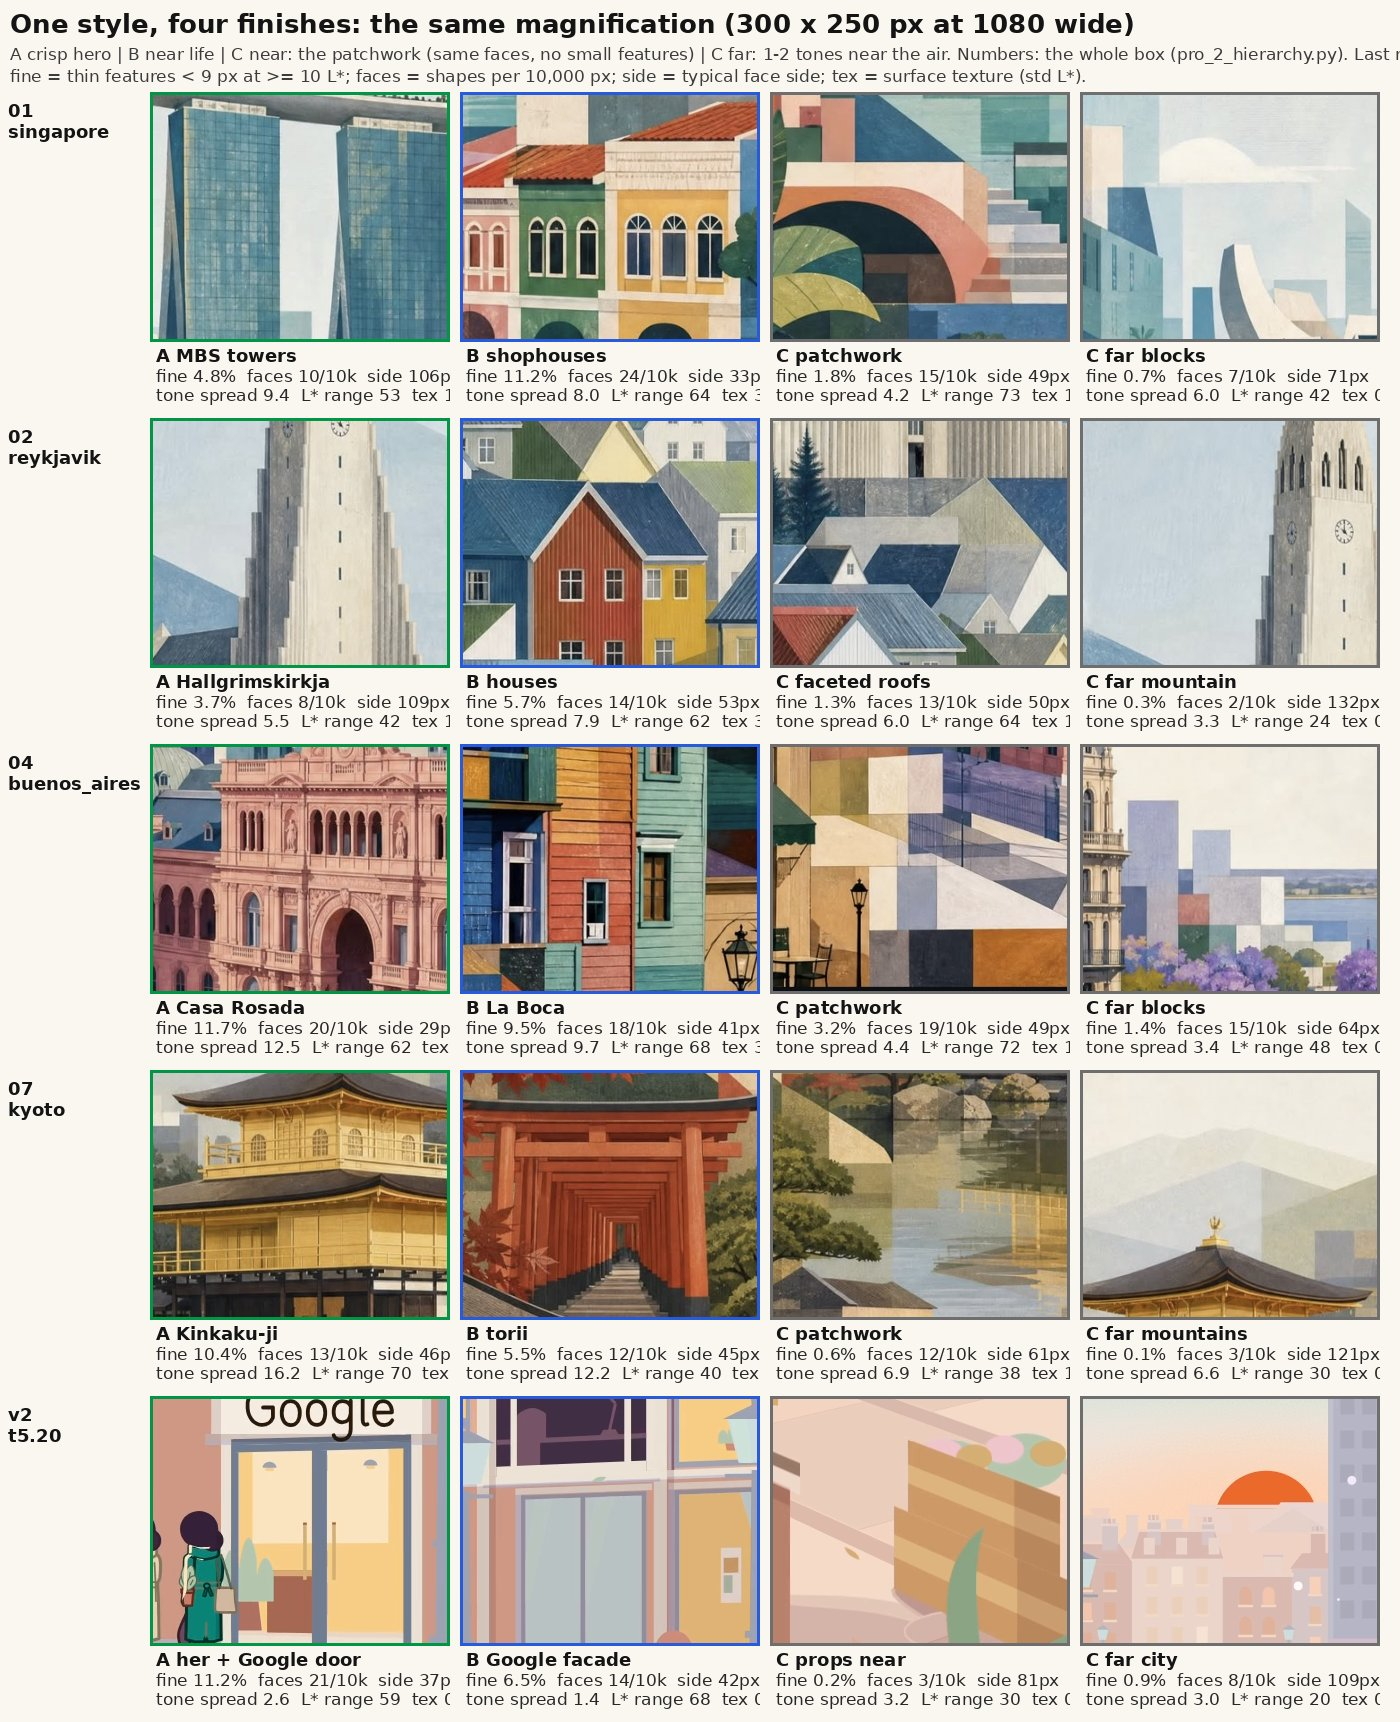
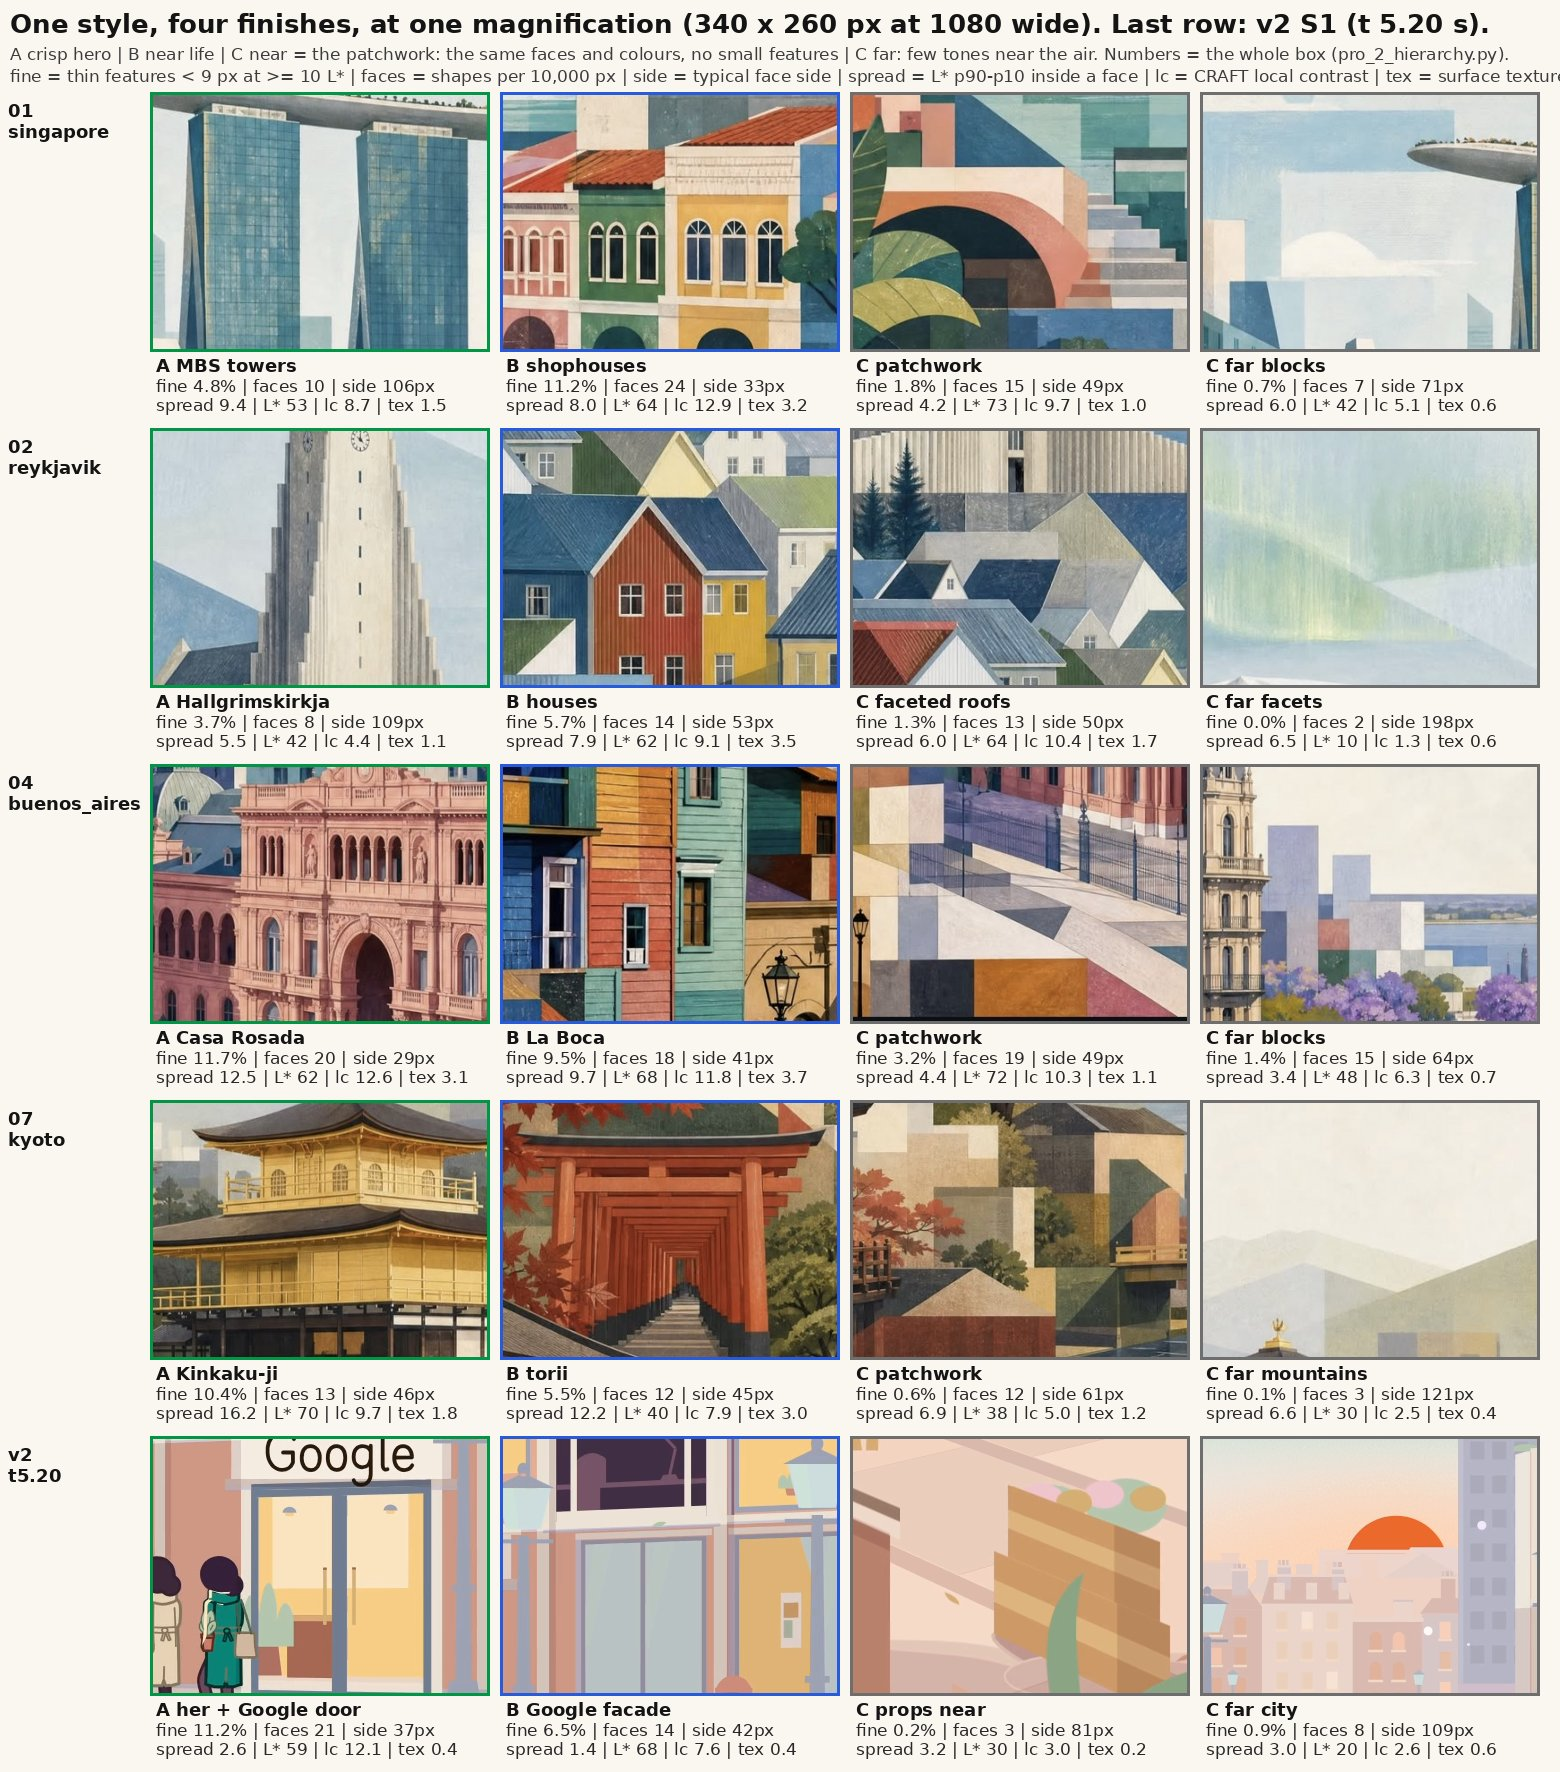
HANDOFF 2d: the journal-corpus thread (the owner's bottom-up approach: recent stories from big publications, scored for fit with our look, clustered) + the study's work in progress
Claude-Session: https://claude.ai/code/session_01YGLGMqbgdpycjemYZL3aoL

diff --git a/video/scripts/look/posters/pro_2_hierarchy.py b/video/scripts/look/posters/pro_2_hierarchy.py
@@ -49,7 +49,7 @@ BOXES = {
     '02_reykjavik.jpg': [
         ('Hallgrimskirkja', 'A', [45, 398, 532, 1118]), ('Harpa', 'A', [592, 1002, 1140, 1233]),
         ('houses', 'B', [0, 1260, 930, 1605]), ('faceted roofs', 'C', [0, 1118, 630, 1260]),
-        ('far mountain', 'Cf', [0, 390, 180, 960])],
+        ('far mountain', 'Cf', [0, 390, 180, 960]), ('far facets', 'Cf', [900, 600, 1206, 880])],
     '03_hanoi.jpg': [
         ('One Pillar Pagoda', 'A', [675, 829, 1185, 1377]), ('Huc bridge', 'A', [225, 1054, 630, 1204]),
         ('cyclo', 'B', [82, 1279, 368, 1564]), ('patchwork', 'C', [405, 1279, 705, 1609]),
@@ -81,10 +81,10 @@ V2 = {  # v2 master frames (1080 x 1920); A = the beat's subject (docs/v2/STYLE.
 }
 # the crop sheet: rows of (image, [(tier label, centre x, centre y) in the image's own pixels])
 CROPS = [
-    ('01_singapore.jpg', [('A MBS towers', 500, 840), ('B shophouses', 800, 1420), ('C patchwork', 300, 1470), ('C far blocks', 170, 860)]),
-    ('02_reykjavik.jpg', [('A Hallgrimskirkja', 250, 820), ('B houses', 450, 1440), ('C faceted roofs', 300, 1190), ('C far mountain', 120, 700)]),
-    ('04_buenos_aires.jpg', [('A Casa Rosada', 900, 1150), ('B La Boca', 150, 1250), ('C patchwork', 650, 1480), ('C far blocks', 375, 830)]),
-    ('07_kyoto.jpg', [('A Kinkaku-ji', 880, 930), ('B torii', 260, 1170), ('C patchwork', 640, 1240), ('C far mountains', 930, 715)]),
+    ('01_singapore.jpg', [('A MBS towers', 500, 840), ('B shophouses', 800, 1420), ('C patchwork', 300, 1470), ('C far blocks', 120, 760)]),
+    ('02_reykjavik.jpg', [('A Hallgrimskirkja', 250, 820), ('B houses', 450, 1440), ('C faceted roofs', 300, 1190), ('C far facets', 1040, 760)]),
+    ('04_buenos_aires.jpg', [('A Casa Rosada', 900, 1150), ('B La Boca', 150, 1250), ('C patchwork', 760, 1510), ('C far blocks', 375, 830)]),
+    ('07_kyoto.jpg', [('A Kinkaku-ji', 880, 930), ('B torii', 260, 1170), ('C patchwork', 470, 1500), ('C far mountains', 1090, 640)]),
     ('v2_t5.20.png', [('A her + Google door', 610, 930), ('B Google facade', 900, 830), ('C props near', 400, 1640), ('C far city', 160, 770)]),
 ]
 GROUP = {'A': 'A', 'B': 'B', 'C': 'C near', 'Cf': 'C far'}
@@ -242,7 +242,7 @@ def heat_overlay(m, tm, t, boxes):
 
 
 def crop_sheet(maps, stats, path):
-    cw, ch = 300, 250
+    cw, ch = 340, 260
     cap_h = 64
     rows = []
     for name, cells in CROPS:
@@ -263,9 +263,9 @@ def crop_sheet(maps, stats, path):
             d.rectangle([0, 0, cw - 1, ch - 1], outline=COL['A' if tier == 'A' else 'B' if tier == 'B' else 'C'], width=3)
             d.text((6, ch + 3), lab, fill=(20, 20, 20), font=FONT_MB)
             if st:
-                d.text((6, ch + 24), f"fine {st['fine_pct']:.1f}%  faces {st['faces_per_10k']:.0f}/10k  side {st['face_side']:.0f}px",
+                d.text((6, ch + 24), f"fine {st['fine_pct']:.1f}% | faces {st['faces_per_10k']:.0f} | side {st['face_side']:.0f}px",
                        fill=(40, 40, 40), font=FONT_M)
-                d.text((6, ch + 43), f"tone spread {st['tone_spread']:.1f}  L* range {st['L_range']:.0f}  tex {st['texture']:.1f}",
+                d.text((6, ch + 43), f"spread {st['tone_spread']:.1f} | L* {st['L_range']:.0f} | lc {st['local_c']:.1f} | tex {st['texture']:.1f}",
                        fill=(40, 40, 40), font=FONT_M)
             imgs.append(cell)
         label = Image.new('RGB', (150, ch + cap_h), BG)
@@ -278,11 +278,11 @@ def crop_sheet(maps, stats, path):
     head = 92
     sheet = Image.new('RGB', (max(r.width for r in rows) + 10, head + sum(r.height + 12 for r in rows)), BG)
     d = ImageDraw.Draw(sheet)
-    d.text((10, 8), 'One style, four finishes: the same magnification (300 x 250 px at 1080 wide)', fill=(20, 20, 20), font=FONT)
-    d.text((10, 44), 'A crisp hero | B near life | C near: the patchwork (same faces, no small features) | C far: 1-2 tones near the air.'
-           ' Numbers: the whole box (pro_2_hierarchy.py). Last row: v2 S1.', fill=(60, 60, 60), font=FONT_M)
-    d.text((10, 66), 'fine = thin features < 9 px at >= 10 L*; faces = shapes per 10,000 px; side = typical face side; tex = surface texture (std L*).',
-           fill=(60, 60, 60), font=FONT_M)
+    d.text((10, 8), 'One style, four finishes, at one magnification (340 x 260 px at 1080 wide). Last row: v2 S1 (t 5.20 s).', fill=(20, 20, 20), font=FONT)
+    d.text((10, 44), 'A crisp hero | B near life | C near = the patchwork: the same faces and colours, no small features | C far: few tones near the air.'
+           ' Numbers = the whole box (pro_2_hierarchy.py).', fill=(60, 60, 60), font=FONT_M)
+    d.text((10, 66), 'fine = thin features < 9 px at >= 10 L* | faces = shapes per 10,000 px | side = typical face side | spread = L* p90-p10 inside a face'
+           ' | lc = CRAFT local contrast | tex = surface texture', fill=(60, 60, 60), font=FONT_M)
     y = head
     for r in rows:
         sheet.paste(r, (0, y))

diff --git a/video/scripts/look/posters/style.py b/video/scripts/look/posters/style.py
@@ -305,7 +305,9 @@ def colour(rgb: np.ndarray, valid: np.ndarray, reg: dict | None, k: int = 12, se
     n4 = v4.sum()
     fam = {k_: round(100 * float((m & v4).sum() / n4), 1) for k_, m in hue_family(C4, h4).items()}
     bnd = {k_: round(100 * float((m & v4).sum() / n4), 1) for k_, m in bands(L4, C4, h4).items()}
-    out = {'clusters': clusters, 'families': fam, 'bands': bnd,
+    ml = v4 & (L4 >= 40)  # mid and light fills only: a dark brown or ink is not 'beige' to the eye
+    bnd_ml = {k_: round(100 * float((m & ml).sum() / n4), 1) for k_, m in bands(L4, C4, h4).items()}
+    out = {'clusters': clusters, 'families': fam, 'bands': bnd, 'bands_L40plus': bnd_ml,
            'warm_vs_cool': round(fam['warm'] / max(0.1, fam['warm'] + fam['cool']), 2)}
     # chroma strategy
     Cv = C4[v4]
@@ -1642,7 +1644,7 @@ def dna_check(p: dict) -> list[str]:
             issues.append(f'{role} {c[role]} L{float(L):.0f} C{float(C):.0f}')
     for role, hx in list(c.items()) + [(f"{k}.{i}", h) for k, v in p.get('support', {}).items() for i, h in enumerate(v['colors'])]:
         L, C, h = lch(hex_lab(hx))
-        b = band_name(float(L), float(C), float(h))
+        b = band_name(float(L), float(C), float(h)) if float(L) >= 40 else ''  # an ink or anchor is never 'beige' to the eye
         if b:
             issues.append(f'{role} {hx} in the {b} band (L{float(L):.0f} C{float(C):.0f} h{float(h):.0f})')
     if contrast_ratio(hex_lab(c['ink']), hex_lab(c['bg'])) < 7:

diff --git a/video/docs/studies/2026-10-28_city_posters/pro_1_depth.md b/video/docs/studies/2026-10-28_city_posters/pro_1_depth.md
@@ -137,7 +137,10 @@ Rules a builder follows: the frame spans **>= 30 L* from the near group's median
 L* < 65 on >= 25 % of the frame outside the caption band and the in-between (65-80) on <= 20 % (posters 27-48 / 8-14;
 v2 11-17 / 21-47); the real darks (< 40) go "where the eye should go" (rule 6: windows, a hull, the shade under trees)
 and stay ~5-10 % (rule 6's dark anchor ~5 %; posters 9-25 %); keep the film's HUES (the owner likes v2's colours) and
-move VALUES by group. One plane is skipped or flat between hero and far (the gap). 5-7 planes per exterior.
+move VALUES by group. One plane is skipped or flat between hero and far (the gap). 5-7 planes per exterior. Hue by
+`recede` as now (a hue on the air's side converges on it, one across keeps its hue at chroma x (1 - 0.8 k)): the near
+group the frame's warmest and most saturated (posters 32-100 deg), the far group at the air's hue or leaning toward
+the rig's cool shade (Reykjavik +34, Cape Town +47 deg off their air, at C* ~4; Kyoto and Hanoi within 6-17 deg).
 
 **3.2 The far scale anchor** (declared per exterior set in W1; drawn new per film from the story's own world: a ridge,
 the sea horizon with a far shore, a far skyline with one landmark, a bridge, gasholders):
@@ -145,9 +148,9 @@ the sea horizon with a far shore, a far skyline with one landmark, a bridge, gas
   its peak or landmark inside x 120-950; >= 65 % of W and off >= 1 side edge; 6-20 % of H tall (posters' 1-20 %).
 - **How pale:** plane +4 (k 0.64) with a +5 ghost behind it (k 0.87) or as the anchor itself; dE to its air 4-16 (the
   ghost <= 6); C* = the air's +-4 (our warm air #FDD6B8 is C* 22, so the anchor stays a warm-lilac or peach tint, never
-  under C* 8); hue within 30 deg of the air's; L* range <= 0.4x the near group's, <= 3 values; real detail (snow,
-  strata, windows) only tone-on-tone (`toneOnTone`, within 15 L*). The Cape Town variant (a mid-valued, desaturated,
-  cool mass) only when the anchor is the view's subject.
+  under C* 8); hue at the air's or up to ~45 deg toward the rig's cool shade; L* range <= 0.4x the near group's, <= 3
+  values; real detail (snow, strata, windows) only tone-on-tone (`toneOnTone`, within 15 L*). The Cape Town variant (a
+  mid-valued, desaturated, cool mass) only when the anchor is the view's subject.
 - **Its foot:** the bottom 10-15 % of its height one flat step nearer the air (+0.1-0.15 k, >= +5 L*): the mist line.
 - **Overlap and scale:** >= 1 nearer plane crosses its base (a roof, a tower, a crown); tiny known things at its foot
   (far roofs without windows, a boat, a lighthouse, a flock) at 1/20-1/40 of its height (Gurney's scale tip).

diff --git a/HANDOFF.md b/HANDOFF.md
@@ -158,6 +158,15 @@ Everything that agent knew is in this repo. This file is the map; the details li
   (booted from `v2r-helper-boot` with `/effort max`, working on this study's branch), discussing content directions
   with the owner; its notes: `content_discussion.md` in the study folder. The orchestrator messages it when
   `content_market.md` and `content_fit.md` are pushed; archive it when the owner closes the discussion.
+- **The journal-corpus thread (owner: "take a look at the stories posted by big journals recently. like forbest, times,
+  economist, etc for each story evalute if having our visual storytelling would actually be a good fit and then cluster
+  the stories and see if anything comes out of it ... refine it and go"):** helper session
+  https://claude.ai/code/session_01YGLGMqT2EoqkuUBVwxxRZE (booted with `/effort max`, ultracode on), on this study's
+  branch; output `journals/` in the study folder (the rubric, about 200-300 stories from the last 30 days, scores, a
+  blind second scorer on a sample, clusters, a chart, a summary). The environment's network policy denies the news
+  hosts and feeds (checked 2026-10-28 22:20 UTC: economist.com, time.com, forbes.com, nytimes, theguardian.com,
+  reuters.com, apnews.com, GDELT, Google News, wikipedia.org), so the corpus comes from web search results; the owner
+  can allow the hosts under the environment's Network access settings.
 - **The owner's answers (2026-10-28 ~22:10 UTC)** to our nine first observations are rules now where decided (one look,
   one brand; a VERY subtle texture to try; lit and shade faces; a full value range: DIRECTION intro and rules 3-6,
   CRAFT §c, PALETTE, the playbook) and open where not (outline-free edges: an A vs B picture; one consolidated layout

diff --git a/video/docs/studies/2026-10-28_city_posters/style.md b/video/docs/studies/2026-10-28_city_posters/style.md
@@ -1,16 +1,17 @@
 # Look lens 2: visual style (colour, light, shape, texture, line, sky, water, type)
 
-*Study, not a rule change (README). Status: skeleton, being filled in.*
+*Study, not a rule change (README). Status: draft in progress; numbers from `video/scripts/look/posters/style.py`.*
+
+**In short.** (1) The posters' base is calmer than v2's and their darks are many: median C* 5-8 against v2's 13-14, a
+quarter to half of each poster near-neutral, and 8-24 % under L* 40 as small dark pieces (v2: 1-4 %). Their saturated
+colour is confetti exactly as our DNA asks. (2) Their landmarks are modelled with one deep step (lit to shade dL* -21 to
+-37, median -29; ours -7 to -12) and their planes are a hard-edged patchwork whose steps shrink with distance. (3) Four of
+the seven sit in the owner's banned beige, olive and grey (25-46 % of the land) and every poster carries a paper grain and
+mottling (DIRECTION rule 4 forbids it); both clash with owner rules and are left to the owner.
 
 ## 1. What the posters do (measured)
-### 1.1 Colour
-### 1.2 Light
-### 1.3 Shape language (the geometric patchwork)
-### 1.4 Texture
-### 1.5 Line
-### 1.6 Sky
-### 1.7 Water
-### 1.8 Type
+
+(skeleton: filled below)
 
 ## 2. Where our films stand
 

diff --git a/video/docs/studies/2026-10-28_city_posters/pro_3_nature.md b/video/docs/studies/2026-10-28_city_posters/pro_3_nature.md
@@ -1,0 +1,37 @@
+# Pro practice 3: nature that looks real but is stylised
+
+*City-poster study, pro-practice researcher 3, 2026-10-28. Analysis only: nothing here is a rule until the owner
+approves it; `video/docs/look/DIRECTION.md` stands. Scratch: `/tmp/posters-pro_3_nature/`. Sheets: `img/pro_3_nature_*.jpg`.*
+
+Status: SKELETON (being filled in; a usage limit may stop this mid-way).
+
+## 1. The feeling, restated precisely
+(pending)
+
+## 2. How the professionals do it
+(pending)
+
+## 3. The concrete approach for our films
+### 3.0 The shared rules (all nature)
+(pending)
+### 3.1 Trees and foliage
+(pending)
+### 3.2 Flowers and plants
+(pending)
+### 3.3 Mountains and rocks
+(pending)
+### 3.4 Clouds and sky effects
+(pending)
+### 3.5 Water and spray
+(pending)
+### 3.6 Engine, gate, check, cost, risk (one table)
+(pending)
+
+## 4. What it would change in v2 (the baseline)
+(pending)
+
+## 5. What the owner didn't name that matters for this feeling
+(pending)
+
+## 6. Clashes with the owner's earlier words, and open questions
+(pending)
